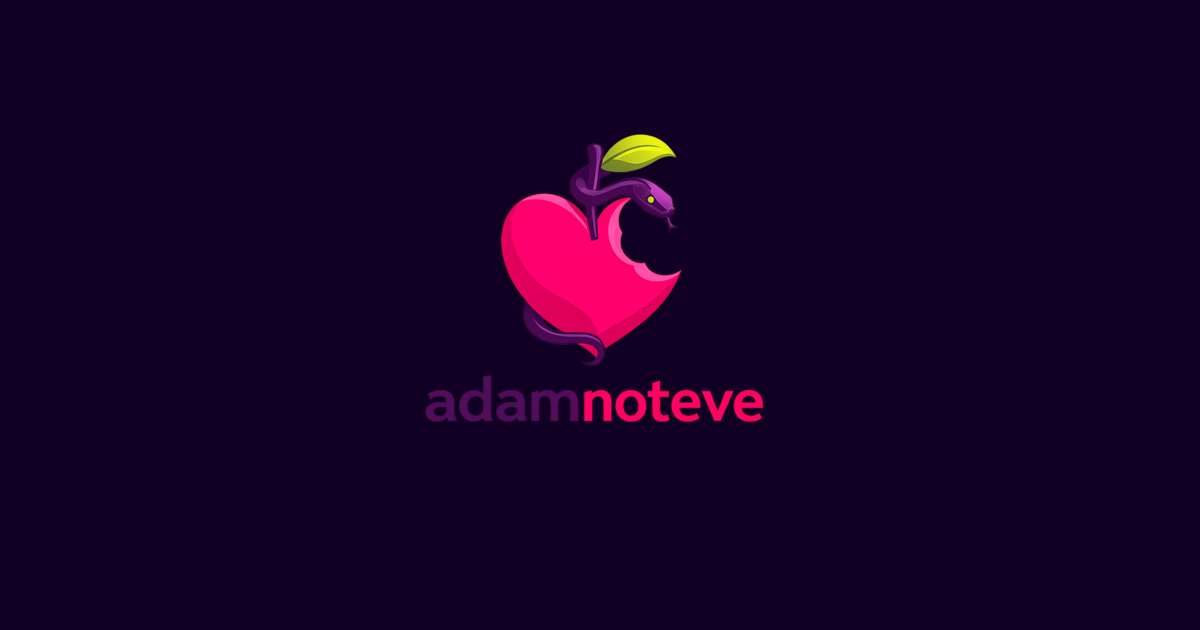
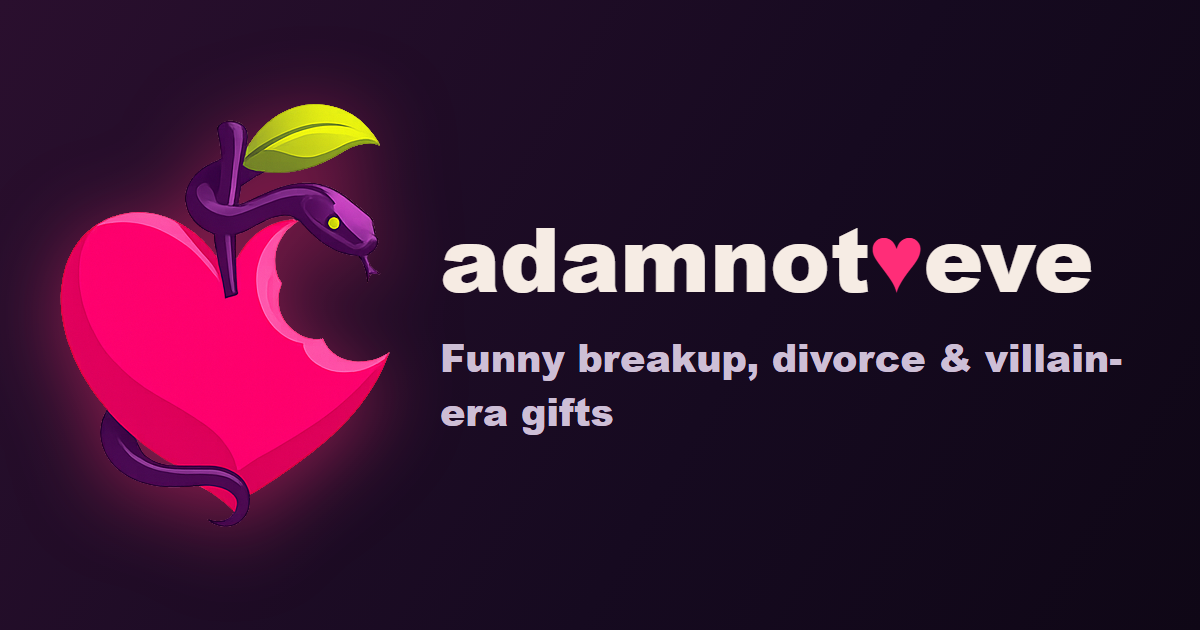
Snake mascot consistency + scrub 'Petty Since the Garden' tagline
- Regenerate favicon/icons (icon-256, icon-512, favicon-64, apple-touch),
  og-image, and mascot pin with the SNAKE mascot (logo-apple.png) —
  replacing the flat no-snake 'cartoon' apple everywhere brand-facing.
- Point all 11 pages' <head> + manifest.json at the new snake PNG icons
  (drop the flat-apple favicon.svg).
- Scrub the 'Petty Since the Garden' tagline from all advertising copy
  (pinterest-seo.js + products.js) — too obscure to convert; kept the
  products in-shop but out of the ad messaging. Regenerated the feed.

Changed region(s): [[0.0, 0.0905, 0.925, 0.9048]]

diff --git a/lib/products.js b/lib/products.js
@@ -1231,11 +1231,11 @@
         'Oxblood Black': 'https://files.cdn.printful.com/files/f92/f924ee8917f4afbd9c8b7aa0b7856d02_preview.png',
         'Dark Grey Heather': 'https://files.cdn.printful.com/files/564/56421fa0b29a8e236e946663483c2df5_preview.png',
       },
-      desc: 'The flagship. Our bitten heart-apple mascot, big on the chest, over PETTY SINCE THE GARDEN. The whole brand in one shirt — wear the origin story.',
+      desc: 'The flagship. Our bitten heart-apple mascot, big and bold on the chest. The whole brand in one shirt — wear the origin story.',
       features: [
         'Bella + Canvas 3001 — premium soft tee',
         '8 dark colors, S–2XL',
-        'Mascot front print + "Petty Since the Garden"',
+        'Bold bitten-heart mascot front print',
         'Our flagship — the apple that started it all',
       ],
     },
@@ -1376,7 +1376,7 @@
         'Sport Grey': 'https://files.cdn.printful.com/files/47b/47b95cd40fef85ff79b6b64489105c00_preview.png',
         'Light Blue': 'https://files.cdn.printful.com/files/57f/57f0978dcaf422f0092e1f0e7ac5d1f8_preview.png',
       },
-      desc: 'Our flagship mascot, wallet-friendly. The bitten heart-apple + "Petty Since the Garden" on a soft Gildan tee — same petty, smaller price.',
+      desc: 'Our flagship mascot, wallet-friendly. The bitten heart-apple mascot on a soft Gildan tee — same petty, smaller price.',
       features: [
         'Gildan 64000 Softstyle — light + breathable',
         '5 dark colors, S–2XL',
@@ -1421,7 +1421,7 @@
         'Bella + Canvas 3480 jersey tank',
         '3 colors, S–2XL',
         'Summer-weight + breathable',
-        'Petty since the garden',
+        'Villain era',
       ],
     },
     {
@@ -1435,7 +1435,7 @@
       desc: 'Manifest, don\'t text — right under your mouse. A petty desk upgrade in full brand color. 8.7"×7.1".',
       features: [
         '8.7"×7.1" non-slip mouse pad',
-        'Full-color "Petty Since the Garden" print',
+        'Full-color bitten-heart print',
         'Smooth tracking surface',
         'Desk therapy, basically',
       ],
@@ -1450,7 +1450,7 @@
       tag: 'NEW',
       sizes: ['30"x40"', '50"x60"', '60"x80"'],
       img: 'https://adamnoteve.com/mockups/p50.png',
-      desc: 'Cozy up in your villain era. 🍎 A soft "Petty Since the Garden" throw blanket for crying, scrolling, and blocking — in comfort.',
+      desc: 'Cozy up in your villain era. 🍎 A soft villain-era throw blanket for crying, scrolling, and blocking — in comfort.',
       features: [
         'Soft sublimated throw blanket',
         '3 sizes (30×40 to 60×80)',
@@ -1521,7 +1521,7 @@
       tag: 'NEW',
       sizes: ['18"x18"', '20"x12"', '22"x22"'],
       img: 'https://adamnoteve.com/mockups/p55-lime.png',
-      desc: 'Decor with a vendetta. 🍎 A soft "Petty Since the Garden" throw pillow for the couch you no longer share.',
+      desc: 'Decor with a vendetta. 🍎 A soft villain-era throw pillow for the couch you no longer share.',
       features: [
         'Soft all-over-print throw pillow',
         '3 sizes',

diff --git a/lib/pinterest-seo.js b/lib/pinterest-seo.js
@@ -41,22 +41,22 @@ const PIN_SEO_LIST = [
 {"id":"p32","pinTitle":"'Petty in Pink' Tee — Pink Villain Era Shirt | Everyday Petty Gift 🍎","pinDesc":"Pink, petty, and proud — the crewneck classic, now an everyday tee for less. This pink villain era shirt is a self-love staple and petty breakup gift for the bestie in her hot-girl healing era. Great for group orders and matching girls'-trip fits. Get petty in pink — shop now.","keywords":["pink aesthetic shirt","villain era outfit","petty quotes shirt","breakup gift for her","self love tee","matching shirts","group order shirts","single girl gift"]},
 {"id":"p35","pinTitle":"adamnot♥eve Logo Tee — Petty Breakup Brand Shirt | Villain Era Staple 🍎","pinDesc":"Wear the brand — the adamnot♥eve wordmark, front and center. This logo tee is a minimal villain era staple, self-love shirt, and petty breakup gift for the bestie living her single era loud and proud. Great for everyday fits and matching squads. Rep the pettiness. Add to cart.","keywords":["aesthetic logo tee","villain era outfit","breakup brand shirt","self love tee","petty gift","minimalist tshirt","matching shirts","single era"]},
 {"id":"p36","pinTitle":"'Property of Adamnoteve' Tee — Varsity Breakup Shirt | Heartbreak Dept Gift 🍎","pinDesc":"Varsity-style staple: PROPERTY OF ADAMNOTEVE, Heartbreak Dept. This collegiate breakup shirt is a villain era outfit, self-love tee, and petty gift for the bestie who belongs only to herself now. Great for matching squads and group orders. Claim your era — shop the tee.","keywords":["varsity shirt aesthetic","villain era outfit","breakup gift","self love tee","collegiate tshirt","petty quotes shirt","matching shirts","single era"]},
-{"id":"p37","pinTitle":"Bitten Heart Sticker — Cute Breakup Sticker | Petty Laptop Water Bottle Sticker 🍎","pinDesc":"Meet Eve, our bitten heart-apple mascot — slap her on a laptop, water bottle, or your ex's bumper. This cute waterproof breakup sticker is a tiny petty gift and villain era accessory for the freshly single. 'Petty Since the Garden.' Great stocking stuffer. Stick her anywhere.","keywords":["cute sticker","laptop sticker","breakup sticker","water bottle sticker","petty gift","aesthetic stickers","villain era","heart apple"]},
+{"id":"p37","pinTitle":"Bitten Heart Sticker — Cute Breakup Sticker | Petty Laptop Water Bottle Sticker 🍎","pinDesc":"Meet Eve, our bitten heart-apple mascot — slap her on a laptop, water bottle, or your ex's bumper. This cute waterproof breakup sticker is a tiny petty gift and villain era accessory for the freshly single. Great stocking stuffer. Stick her anywhere.","keywords":["cute sticker","laptop sticker","breakup sticker","water bottle sticker","petty gift","aesthetic stickers","villain era","heart apple"]},
 {"id":"p38","pinTitle":"Bitten Heart Magnet — Cute Fridge Magnet | Petty Breakup Kitchen Decor 🍎","pinDesc":"Eve, our bitten heart-apple mascot, holding down the fridge you now own outright. This die-cut flexible magnet is a cute breakup gift, villain era kitchen decor, and petty pick-me-up for the newly-single bestie. Great for lockers and whiteboards. Put her on the fridge.","keywords":["cute magnet","fridge magnet","breakup gift","petty gift","kitchen decor","villain era decor","aesthetic magnet","heart apple"]},
-{"id":"p39","pinTitle":"Bitten Heart Tee — 'Petty Since the Garden' Shirt | Villain Era Breakup Tee 🍎","pinDesc":"The flagship: our bitten heart-apple mascot over PETTY SINCE THE GARDEN — the whole brand in one shirt. This villain era tee is a self-love staple and petty breakup gift for the bestie owning her single era. Great for matching squads and group orders. Wear the whole vibe.","keywords":["villain era outfit","petty quotes shirt","funny breakup shirt","self love tee","breakup gift","matching shirts","aesthetic tshirt","single era"]},
+{"id":"p39","pinTitle":"Bitten Heart Tee — Villain Era Breakup Shirt | Funny Self-Love Tee 🍎","pinDesc":"The flagship: our bitten heart-apple mascot — the whole brand in one shirt. This villain era tee is a self-love staple and petty breakup gift for the bestie owning her single era. Great for matching squads and group orders. Wear the whole vibe.","keywords":["villain era outfit","petty quotes shirt","funny breakup shirt","self love tee","breakup gift","matching shirts","aesthetic tshirt","single era"]},
 {"id":"p40","pinTitle":"'Villain Era' Tee — Villain Era Outfit Shirt | Petty Breakup Gift, Population: Me 🍎","pinDesc":"Population: me. Lean all the way into your villain era with this soft everyday tee at a petty price. A self-love shirt and breakup gift for the bestie who's done being the nice one. Great for group orders and matching girls'-trip fits. Own your era — add to cart.","keywords":["villain era outfit","villain era shirt","funny breakup shirt","self love tee","petty quotes shirt","matching shirts","group order shirts","single girl gift"]},
 {"id":"p41","pinTitle":"'Hot Single Summer' Tee — Hot Girl Summer Shirt | Single Era Beach Gift 🍎","pinDesc":"No exes, no closure, just sun — the uniform of your hot single summer. This hot-girl-summer tee is a single era staple and petty breakup gift for beach trips, girls' getaways, and villain era glow-ups. Great for group orders and matching squads. Suit up for summer — shop it.","keywords":["hot girl summer outfit","hot single summer","single era","funny summer shirt","breakup gift","matching shirts","group order shirts","villain era outfit"]},
 {"id":"p42","pinTitle":"'Touch Grass' Tee — Funny Meme Shirt | Petty Breakup Gift for Him or Her 🍎","pinDesc":"Touch grass, not my ex — a public service announcement you can wear. This funny meme shirt is a petty gift and villain era staple for the bestie who's terminally online and unbothered. Great for group orders and matching squads. Say it without saying it. Add to cart.","keywords":["funny meme shirt","touch grass","petty quotes shirt","funny breakup shirt","villain era outfit","matching shirts","group order shirts","gift for single friend"]},
 {"id":"p44","pinTitle":"adamnot♥eve Logo Tee (Value) — Cheap Matching Shirts | Group Order Breakup Tee 🍎","pinDesc":"Wear the brand for less — the adamnot♥eve wordmark on a soft, affordable Gildan tee. Built for group orders and matching squads on a girls' trip, bachelorette, or divorce party. A budget villain era staple and petty breakup gift. Stock up the crew — add to cart.","keywords":["matching shirts","group order shirts","cheap tshirts bulk","villain era outfit","breakup gift","bachelorette shirts","affordable tshirt","self love tee"]},
-{"id":"p45","pinTitle":"Bitten Heart Tee (Value) — 'Petty Since the Garden' Group Order Shirt | Cheap Petty Tee 🍎","pinDesc":"Our flagship mascot, wallet-friendly: the bitten heart-apple + 'Petty Since the Garden' on a soft, affordable Gildan tee. Perfect for group orders, matching squads, and divorce or single-summer parties. A budget villain era staple and petty breakup gift. Outfit the whole crew.","keywords":["matching shirts","group order shirts","cheap tshirts bulk","villain era outfit","petty quotes shirt","breakup gift","affordable tshirt","bachelorette shirts"]},
+{"id":"p45","pinTitle":"Bitten Heart Tee (Value) — Cheap Villain Era Group Order Shirt | Petty Breakup Tee 🍎","pinDesc":"Our flagship mascot, wallet-friendly: the bitten heart-apple + on a soft, affordable Gildan tee. Perfect for group orders, matching squads, and divorce or single-summer parties. A budget villain era staple and petty breakup gift. Outfit the whole crew.","keywords":["matching shirts","group order shirts","cheap tshirts bulk","villain era outfit","petty quotes shirt","breakup gift","affordable tshirt","bachelorette shirts"]},
 {"id":"p43","pinTitle":"'Villain Era' Sticker — Population: Me Sticker | Petty Laptop Water Bottle Sticker 🍎","pinDesc":"Your villain era, die-cut. Population: me — slap it on a laptop, journal, or water bottle. This petty breakup sticker is a tiny self-love gift and villain era accessory for the bestie done playing nice. Cute weatherproof and quietly savage. Claim your era — stick it on.","keywords":["villain era sticker","funny sticker","laptop sticker","water bottle sticker","petty quotes","breakup sticker","aesthetic stickers","villain era"]},
 {"id":"p46","pinTitle":"'Hot Single Summer' Tank Top — Hot Girl Summer Tank | Single Era Beach Gift 🍎","pinDesc":"No exes, no closure, just sun. Hot Single Summer on a soft jersey tank — the uniform for beach days, girls' trips, and villain era glow-ups. A single era staple and petty breakup gift for the freshly single bestie. Great for hot-girl-summer fits. Tank up for summer.","keywords":["hot girl summer outfit","hot single summer","tank top aesthetic","single era","breakup gift","summer outfit","villain era outfit","gift for single friend"]},
 {"id":"p48","pinTitle":"'Manifest Don't Text' Mouse Pad — Aesthetic Desk Decor | Self Care Office Gift 🍎","pinDesc":"Manifest, don't text — right under your mouse. This full-color mouse pad (8.7 x 7.1 in) is aesthetic desk decor, a self-care office gift, and petty breakup pick-me-up for the WFH bestie. Great for cute desk setups and villain era workspaces. Upgrade your desk — add to cart.","keywords":["aesthetic mouse pad","cute desk setup","home office aesthetic","breakup self care","self care gift","villain era decor","desk accessories","office gift"]},
-{"id":"p50","pinTitle":"'Petty Since the Garden' Throw Blanket — Cozy Villain Era Decor | Self Care Gift 🍎","pinDesc":"Cozy up in your villain era with a soft 'Petty Since the Garden' throw blanket. This aesthetic room decor doubles as breakup self-care and a petty gift for the freshly single bestie's couch. Great for reading nooks and sad-girl movie nights. Wrap up and heal — add to cart.","keywords":["throw blanket aesthetic","aesthetic room decor","breakup self care","villain era decor","cozy blanket gift","self care gift","petty gift","gift for single friend"]},
+{"id":"p50","pinTitle":"Villain Era Throw Blanket — Cozy Aesthetic Breakup Decor | Self Care Gift 🍎","pinDesc":"Cozy up in your villain era with a soft throw blanket. This aesthetic room decor doubles as breakup self-care and a petty gift for the freshly single bestie's couch. Great for reading nooks and sad-girl movie nights. Wrap up and heal — add to cart.","keywords":["throw blanket aesthetic","aesthetic room decor","breakup self care","villain era decor","cozy blanket gift","self care gift","petty gift","gift for single friend"]},
 {"id":"p52","pinTitle":"Petty Pin Set (5) — Funny Enamel Pins | Villain Era Breakup Accessory 🍎","pinDesc":"Five petty buttons — bitten apple, Red Flag Club, Petty, Emotionally Unavailable, and Blocked. This funny pin set is a villain era accessory, tote-and-jacket flair, and petty breakup gift for the bestie who wears her attitude. Great stocking stuffer. Pin your era on.","keywords":["funny pins","enamel pin set","villain era accessory","petty gift","breakup gift","aesthetic pins","backpack pins","gift for single friend"]},
 {"id":"p53","pinTitle":"'Hot Single Summer' Beach Towel — Single Era Beach Gift | Aesthetic Pool Towel 🍎","pinDesc":"No exes, no closure, just sun. This big, soft Hot Single Summer beach towel is a single era essential, aesthetic pool accessory, and petty breakup gift for beach trips and girls' getaways. Great for villain era summer content. Claim your spot in the sand — add to cart.","keywords":["hot girl summer","beach towel aesthetic","single era","summer beach gift","breakup gift","villain era","pool accessories","gift for single friend"]},
 {"id":"p54","pinTitle":"Petty Bucket Hat — Reversible Bitten Apple Bucket Hat | Villain Era Summer Accessory 🍎","pinDesc":"All-over apples, all attitude — a reversible bucket hat covered in the bitten heart. This villain era accessory is a hot single summer staple and petty breakup gift for festivals, beach days, and bad-hair glow-ups. Great for matching-squad summer content. Top off your fit.","keywords":["bucket hat aesthetic","villain era accessory","hot single summer","festival outfit","petty gift","summer accessories","breakup gift","reversible bucket hat"]},
-{"id":"p55","pinTitle":"'Petty Since the Garden' Throw Pillow — Villain Era Room Decor | Aesthetic Couch Pillow 🍎","pinDesc":"Decor with a vendetta: a soft 'Petty Since the Garden' throw pillow for the couch you now have to yourself. This aesthetic room decor is breakup self-care and a petty gift for the freshly single bestie's glow-up apartment. Great for housewarmings. Throw it on — add to cart.","keywords":["throw pillow aesthetic","aesthetic room decor","villain era decor","breakup self care","housewarming gift","self care gift","petty gift","gift for single friend"]},
+{"id":"p55","pinTitle":"Villain Era Throw Pillow — Aesthetic Breakup Room Decor | Cozy Couch Pillow 🍎","pinDesc":"Decor with a vendetta: a soft throw pillow for the couch you now have to yourself. This aesthetic room decor is breakup self-care and a petty gift for the freshly single bestie's glow-up apartment. Great for housewarmings. Throw it on — add to cart.","keywords":["throw pillow aesthetic","aesthetic room decor","villain era decor","breakup self care","housewarming gift","self care gift","petty gift","gift for single friend"]},
 {"id":"p56","pinTitle":"'Block. Delete. Thrive.' Poster — Self Love Wall Art | Breakup Affirmation Print 🍎","pinDesc":"Daily affirmation for the wall: BLOCK. DELETE. THRIVE. This museum-matte poster is self-love wall art, aesthetic room decor, and a petty breakup gift for the bestie's healing-era gallery wall. Great for dorms and glow-up apartments. Hang your mantra — add to cart.","keywords":["self love wall art","aesthetic room decor","breakup affirmation","villain era decor","motivational poster","breakup self care","petty gift","dorm decor"]},
 {"id":"p57","pinTitle":"'Come Outside' Tee (Value) — Funny Meme Shirt | Group Order Petty Gift 🍎","pinDesc":"Stick-figure scuffle + 'Come outside, we not gonna jump you.' This funny meme shirt on a soft, affordable Gildan tee is built for group orders and matching squads. A petty villain era staple and gift for the bestie with jokes. Great for girls' trips. Stock up the crew.","keywords":["funny meme shirt","group order shirts","matching shirts","cheap tshirts bulk","petty quotes shirt","villain era outfit","funny gift","affordable tshirt"]},
 {"id":"p58","pinTitle":"'Busy Healing' Tee (Value) — Self Love Shirt | Group Order Breakup Gift 🍎","pinDesc":"'You called? I was busy healing.' This self-love meme shirt on a soft, affordable Gildan tee is a petty breakup gift and villain era staple — built for group orders and matching squads. Great for girls' trips and healing-era besties. Heal loud, buy cheap. Add to cart.","keywords":["self love tee","funny breakup shirt","group order shirts","matching shirts","healing era","petty quotes shirt","cheap tshirts bulk","villain era outfit"]},

diff --git a/about.html b/about.html
@@ -4,8 +4,8 @@
 <meta charset="UTF-8" />
 <meta name="viewport" content="width=device-width, initial-scale=1" />
 <title>About — Adamnoteve</title>
-<link rel="icon" type="image/svg+xml" href="favicon.svg" />
-<link rel="alternate icon" href="favicon.ico" />
+<link rel="icon" type="image/png" sizes="512x512" href="icon-512.png" />
+<link rel="icon" type="image/png" sizes="64x64" href="favicon-64.png" />
 <link rel="apple-touch-icon" href="icon-256.png" />
 <link rel="manifest" href="manifest.json" />
 <meta name="theme-color" content="#140820" />

diff --git a/cart.html b/cart.html
@@ -4,8 +4,8 @@
 <meta charset="UTF-8" />
 <meta name="viewport" content="width=device-width, initial-scale=1" />
 <title>Cart — Adamnoteve</title>
-<link rel="icon" type="image/svg+xml" href="favicon.svg" />
-<link rel="alternate icon" href="favicon.ico" />
+<link rel="icon" type="image/png" sizes="512x512" href="icon-512.png" />
+<link rel="icon" type="image/png" sizes="64x64" href="favicon-64.png" />
 <link rel="apple-touch-icon" href="icon-256.png" />
 <link rel="manifest" href="manifest.json" />
 <meta name="theme-color" content="#140820" />

diff --git a/checkout.html b/checkout.html
@@ -4,8 +4,8 @@
 <meta charset="UTF-8" />
 <meta name="viewport" content="width=device-width, initial-scale=1" />
 <title>Checkout — Adamnoteve</title>
-<link rel="icon" type="image/svg+xml" href="favicon.svg" />
-<link rel="alternate icon" href="favicon.ico" />
+<link rel="icon" type="image/png" sizes="512x512" href="icon-512.png" />
+<link rel="icon" type="image/png" sizes="64x64" href="favicon-64.png" />
 <link rel="apple-touch-icon" href="icon-256.png" />
 <link rel="manifest" href="manifest.json" />
 <meta name="theme-color" content="#140820" />

diff --git a/contact.html b/contact.html
@@ -4,8 +4,8 @@
 <meta charset="UTF-8" />
 <meta name="viewport" content="width=device-width, initial-scale=1" />
 <title>Contact — Adamnoteve</title>
-<link rel="icon" type="image/svg+xml" href="favicon.svg" />
-<link rel="alternate icon" href="favicon.ico" />
+<link rel="icon" type="image/png" sizes="512x512" href="icon-512.png" />
+<link rel="icon" type="image/png" sizes="64x64" href="favicon-64.png" />
 <link rel="apple-touch-icon" href="icon-256.png" />
 <link rel="manifest" href="manifest.json" />
 <meta name="theme-color" content="#140820" />

diff --git a/index.html b/index.html
@@ -38,8 +38,8 @@
 }
 </script>
 
-<link rel="icon" type="image/svg+xml" href="favicon.svg" />
-<link rel="alternate icon" href="favicon.ico" />
+<link rel="icon" type="image/png" sizes="512x512" href="icon-512.png" />
+<link rel="icon" type="image/png" sizes="64x64" href="favicon-64.png" />
 <link rel="apple-touch-icon" href="icon-256.png" />
 <link rel="manifest" href="manifest.json" />
 <meta name="theme-color" content="#140820" />

diff --git a/kits.html b/kits.html
@@ -18,8 +18,8 @@
 <meta name="twitter:title" content="Bundles & Kits — Adamnoteve" />
 <meta name="twitter:description" content="Curated breakup-merch bundles. Free sticker on most, free shipping on the big ones." />
 <meta name="twitter:image" content="https://adamnoteve.com/og-image.png" />
-<link rel="icon" type="image/svg+xml" href="favicon.svg" />
-<link rel="alternate icon" href="favicon.ico" />
+<link rel="icon" type="image/png" sizes="512x512" href="icon-512.png" />
+<link rel="icon" type="image/png" sizes="64x64" href="favicon-64.png" />
 <link rel="apple-touch-icon" href="icon-256.png" />
 <link rel="manifest" href="manifest.json" />
 <meta name="theme-color" content="#140820" />

diff --git a/privacy.html b/privacy.html
@@ -4,8 +4,8 @@
 <meta charset="UTF-8" />
 <meta name="viewport" content="width=device-width, initial-scale=1" />
 <title>Privacy Policy — Adamnoteve</title>
-<link rel="icon" type="image/svg+xml" href="favicon.svg" />
-<link rel="alternate icon" href="favicon.ico" />
+<link rel="icon" type="image/png" sizes="512x512" href="icon-512.png" />
+<link rel="icon" type="image/png" sizes="64x64" href="favicon-64.png" />
 <link rel="apple-touch-icon" href="icon-256.png" />
 <link rel="manifest" href="manifest.json" />
 <meta name="theme-color" content="#140820" />

diff --git a/product.html b/product.html
@@ -4,8 +4,8 @@
 <meta charset="UTF-8" />
 <meta name="viewport" content="width=device-width, initial-scale=1" />
 <title>Product — Adamnoteve</title>
-<link rel="icon" type="image/svg+xml" href="favicon.svg" />
-<link rel="alternate icon" href="favicon.ico" />
+<link rel="icon" type="image/png" sizes="512x512" href="icon-512.png" />
+<link rel="icon" type="image/png" sizes="64x64" href="favicon-64.png" />
 <link rel="apple-touch-icon" href="icon-256.png" />
 <link rel="manifest" href="manifest.json" />
 <meta name="theme-color" content="#140820" />

diff --git a/refund.html b/refund.html
@@ -4,8 +4,8 @@
 <meta charset="UTF-8" />
 <meta name="viewport" content="width=device-width, initial-scale=1" />
 <title>Returns &amp; Refunds — Adamnoteve</title>
-<link rel="icon" type="image/svg+xml" href="favicon.svg" />
-<link rel="alternate icon" href="favicon.ico" />
+<link rel="icon" type="image/png" sizes="512x512" href="icon-512.png" />
+<link rel="icon" type="image/png" sizes="64x64" href="favicon-64.png" />
 <link rel="apple-touch-icon" href="icon-256.png" />
 <link rel="manifest" href="manifest.json" />
 <meta name="theme-color" content="#140820" />

diff --git a/shop.html b/shop.html
@@ -13,8 +13,8 @@
 <meta property="og:image" content="https://adamnoteve.com/og-image.png" />
 <meta name="twitter:card" content="summary_large_image" />
 <meta name="twitter:image" content="https://adamnoteve.com/og-image.png" />
-<link rel="icon" type="image/svg+xml" href="favicon.svg" />
-<link rel="alternate icon" href="favicon.ico" />
+<link rel="icon" type="image/png" sizes="512x512" href="icon-512.png" />
+<link rel="icon" type="image/png" sizes="64x64" href="favicon-64.png" />
 <link rel="apple-touch-icon" href="icon-256.png" />
 <link rel="manifest" href="manifest.json" />
 <meta name="theme-color" content="#140820" />